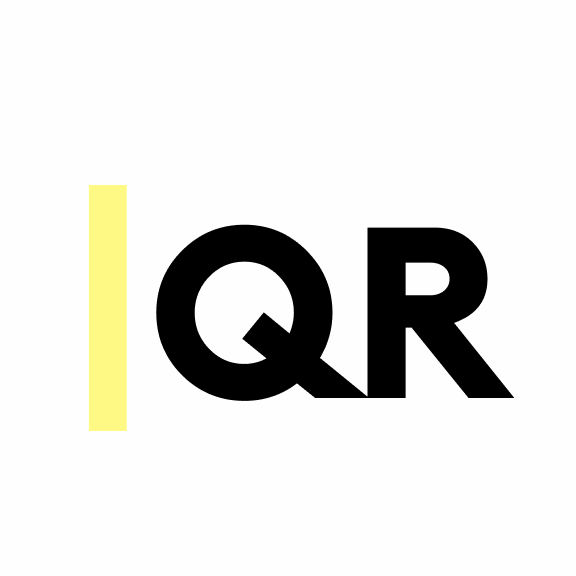
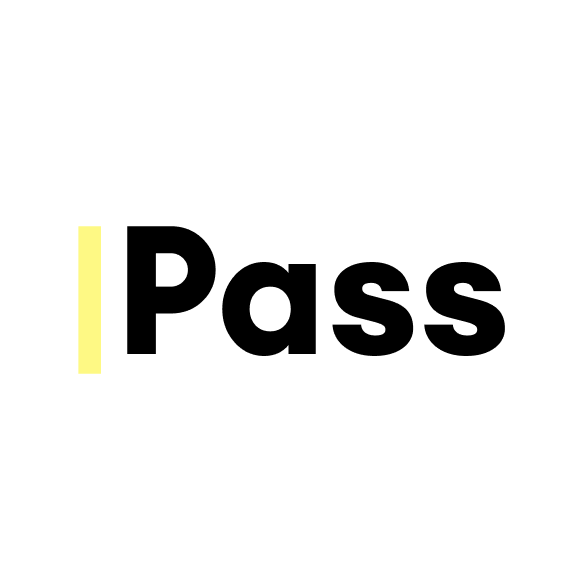
Rename shardQR > split|Pass

Changed region(s): [[0.125, 0.3125, 0.9062, 0.75]]

diff --git a/src/screens/Home/Home.jsx b/src/screens/Home/Home.jsx
@@ -36,7 +36,7 @@ const Home = ({ navigation }) => {
             color="accent"
             icon={ICON.SCAN}
             text="Scan Secret"
-            tiny="Add an external ShardQR to become a guardian."
+            tiny="Add an external QR to become a guardian."
             onPress={() => navigation.navigate('scanner')}
           />
           {lastViewed ? (
@@ -70,11 +70,11 @@ const Home = ({ navigation }) => {
             </View>
 
             <Text bold secondary title style={{ maxWidth: '55%' }}>
-              New features in ShardQR
+              New features in split|Pass
             </Text>
 
             <Text caption color="contentLight">
-              Explore the new features that make ShardQR much better.
+              Explore the new features that make split|Pass much better.
             </Text>
           </Card>
         )}

diff --git a/src/screens/Home/components/CardAction.jsx b/src/screens/Home/components/CardAction.jsx
@@ -9,14 +9,14 @@ import { useStore } from '../../../contexts';
 const CardAction = ({ caption, color, icon, text, tiny, onPress }) => {
   const { settings: { theme } = {} } = useStore();
 
-  const common = { color: color === 'accent' && theme !== DEFAULT_THEME ? 'base' : undefined, ellipsizeMode: true };
+  const common = { color: color === 'accent' && theme !== DEFAULT_THEME ? 'base' : undefined };
 
   return (
     <Pressable onPress={onPress} style={style.container}>
       <Card color={color} spaceBetween style={style.content}>
         <View row>
           <Icon {...common} name={icon} style={style.icon} />
-          <Text {...common} bold caption>
+          <Text {...common} bold caption ellipsizeMode>
             {text}
           </Text>
         </View>

diff --git a/src/screens/Onboarding/Onboarding.constants.js b/src/screens/Onboarding/Onboarding.constants.js
@@ -16,9 +16,9 @@ const SLIDES = [
     image: require('../../../assets/images/alice-bob.png'),
   },
   {
-    title: 'Join Alice with split|QR.',
+    title: 'Join Alice with split|Pass.',
     message:
-      "It's your turn. Just like Alice, discover the security offered by split|QR. Safeguard your secrets effortlessly and reliably.",
+      "It's your turn. Just like Alice, discover the security offered by split|Pass. Safeguard your secrets effortlessly and reliably.",
     image: require('../../../assets/images/alice-join.png'),
   },
 ];

diff --git a/src/screens/Viewer/Viewer.jsx b/src/screens/Viewer/Viewer.jsx
@@ -56,7 +56,7 @@ const Viewer = ({
   };
 
   const handleShareCode = async () => {
-    await Share.share({ message: `splitqr://${values[currentIndex]}` }).catch(() => {});
+    await Share.share({ message: `splitpass://${values[currentIndex]}` }).catch(() => {});
   };
 
   const handleFavorite = async () => {

diff --git a/src/App.constants.js b/src/App.constants.js
@@ -23,7 +23,7 @@ const STEPS = {
   PIN: 'pin',
 };
 
-const STORAGE_DOMAIN = 'com.satoshi-ltd.splitqr';
+const STORAGE_DOMAIN = 'com.satoshi-ltd.splitpass';
 
 const VAULT_TYPE = ['Account', 'Finance', 'Social', 'others'];
 

diff --git a/src/components/Logo/Logo.style.js b/src/components/Logo/Logo.style.js
@@ -7,6 +7,6 @@ export const style = StyleSheet.create({
 
   image: {
     height: '$fontSizeTitle * 0.8',
-    width: '$fontSizeTitle * 3.6',
+    width: '$fontSizeTitle * 3.8',
   },
 });

diff --git a/src/modules/l10n.js b/src/modules/l10n.js
@@ -1,5 +1,5 @@
 export const L10N = {
-  ABOUT: 'About splitQR',
+  ABOUT: 'About split|Pass',
   APPERANCE_DARK: 'Switch to dark mode',
   APPERANCE_LIGHT: 'Switch to light mode',
 

diff --git a/src/contexts/store.constants.js b/src/contexts/store.constants.js
@@ -10,6 +10,6 @@ const DEFAULTS = {
   },
 };
 
-const FILENAME = 'com.satoshi-ltd.splitqr';
+const FILENAME = 'com.satoshi-ltd.splitpass';
 
 export { DEFAULTS, FILENAME };
